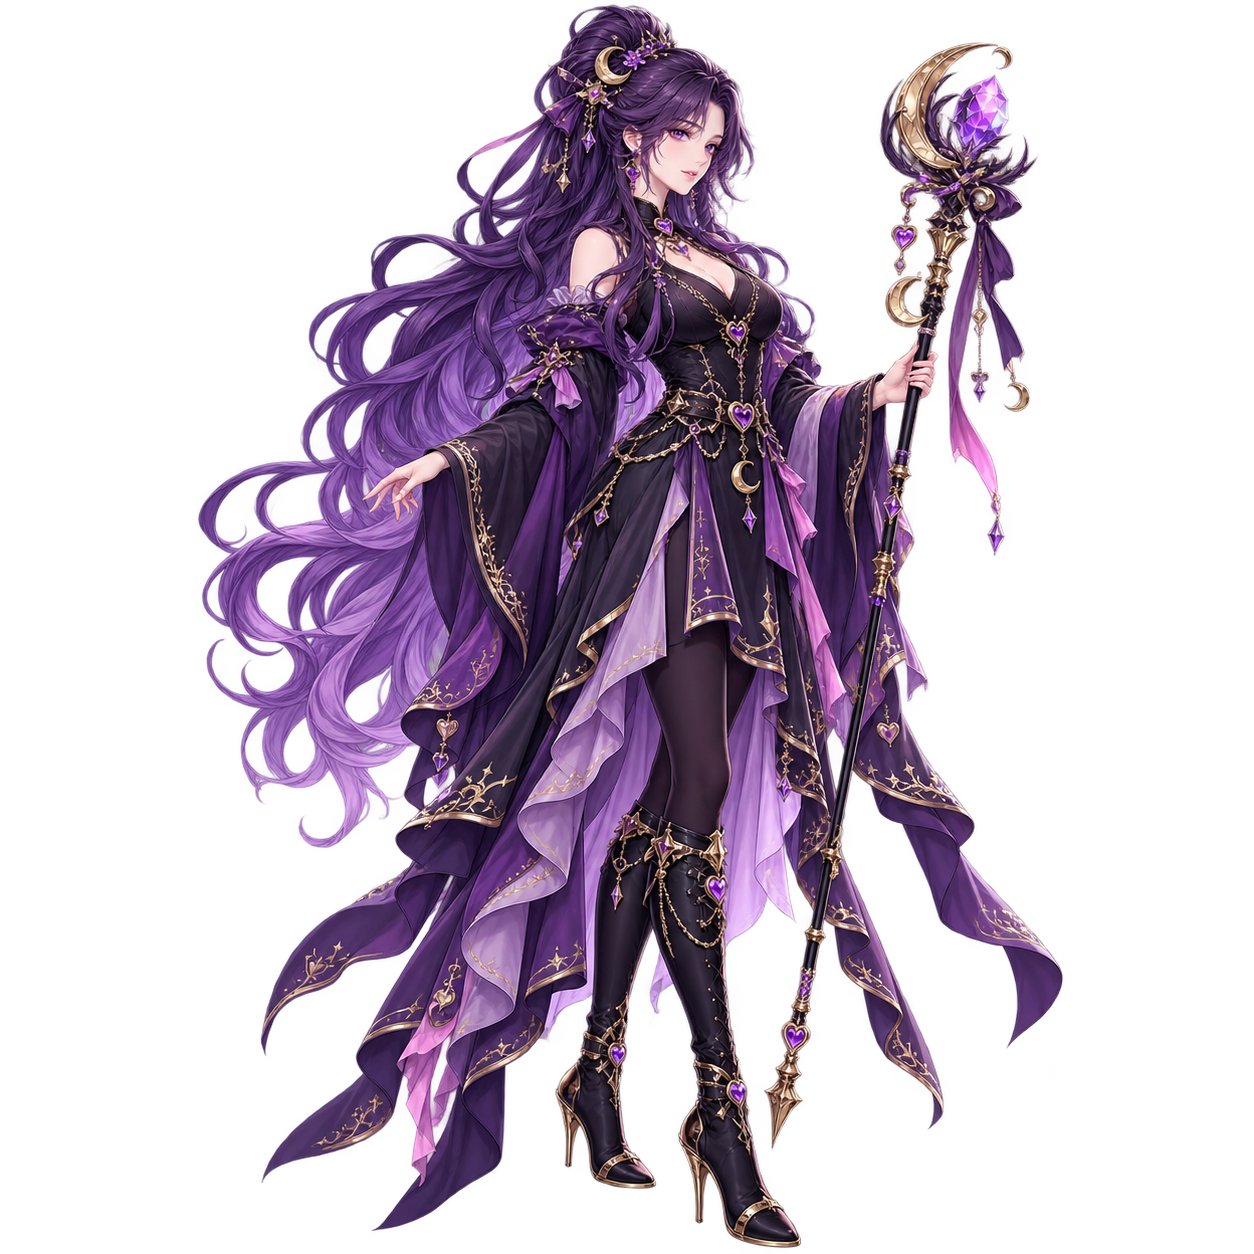
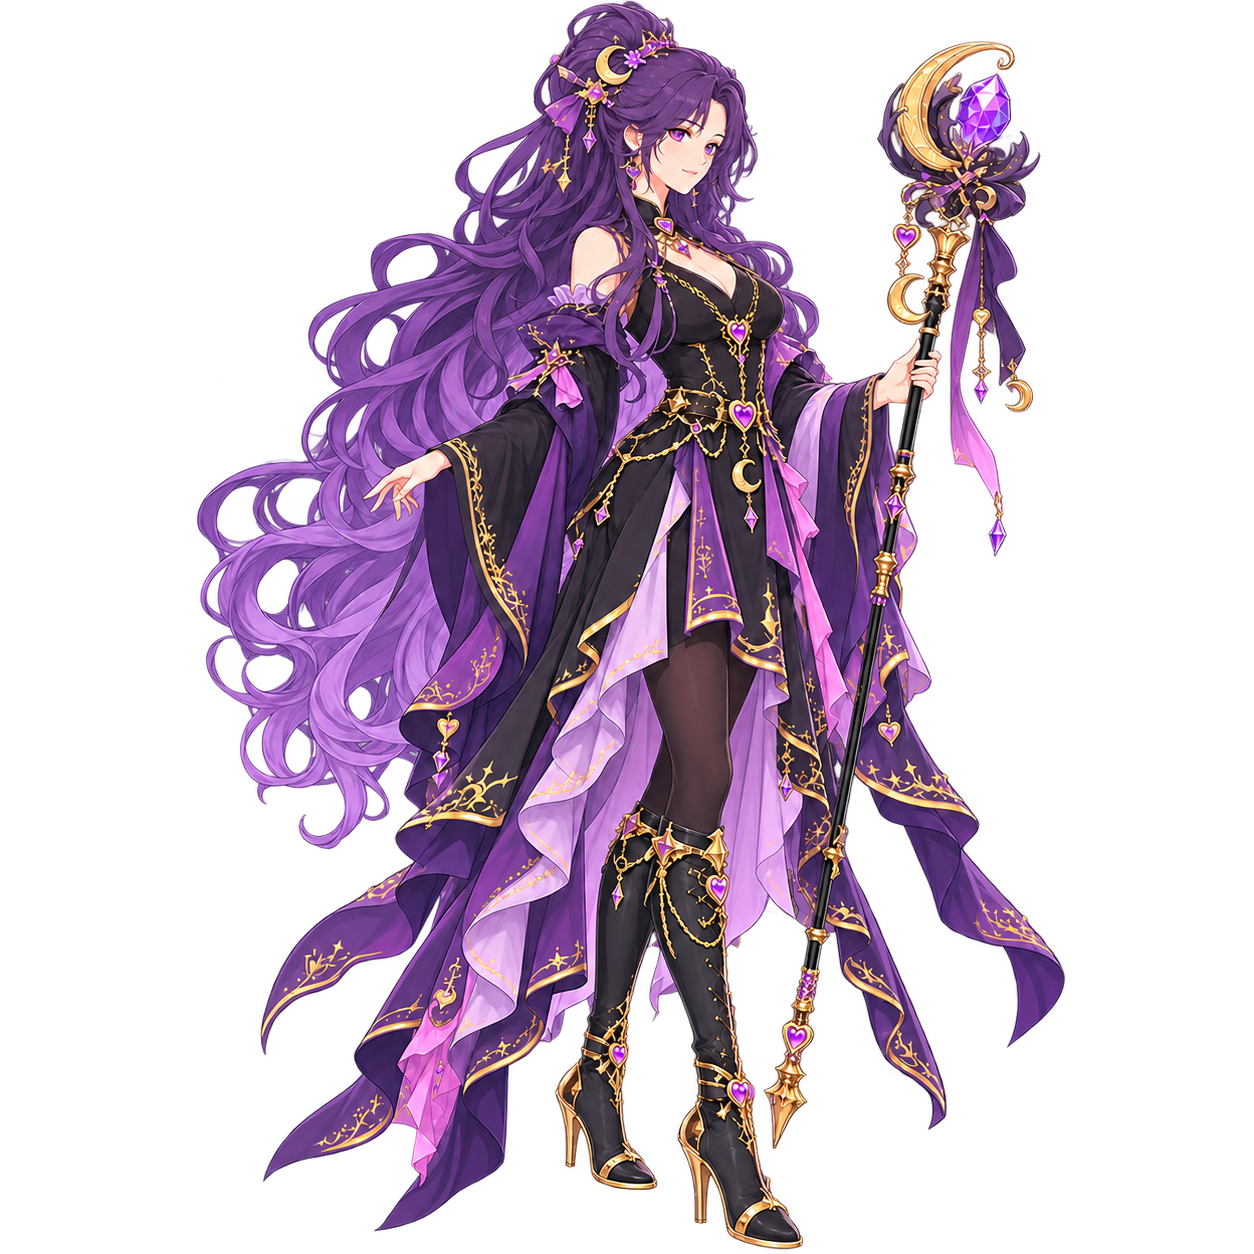
詠唱者のスプライト作成

Changed region(s): [[0.1555, 0.0, 0.8708, 1.0], [0.1866, 0.8086, 0.2177, 0.8397]]

diff --git a/docs/specs/移動キャラクタースプライト規格.md b/docs/specs/移動キャラクタースプライト規格.md
@@ -1,0 +1,54 @@
+# 移動キャラクタースプライト規格
+
+## 目的と適用範囲
+
+本規格は、フィールド上で移動するキャラクターの `idle` / `walk` 用sprite sheetの固定レイアウト、再生順、描画制約を定める。キャラクター固有の外見は[キャラクター設定](キャラクター設定.md)に従い、全体の画風・配色は[世界観・アートディレクション](世界観・アートディレクション.md)に従う。
+
+汎用のasset spec / animation specのデータ契約は[スプライト制作仕様](スプライト制作仕様.md)を正とする。
+
+## sheet規格
+
+| 項目 | 規格 |
+| --- | --- |
+| 画像形式 | 透過PNG、RGBA |
+| sheetサイズ | `512 × 320 px` |
+| レイアウト | 8列 × 5行のgrid。セル間の余白なし |
+| 1フレーム | `64 × 64 px` |
+| 総フレーム数 | 40フレーム（8方向 × 停止1フレーム + 歩行4フレーム） |
+| 視点 | 斜め上見下ろしの3/4トップダウン。頭頂、肩、足元が見えること |
+| 方向 | 左右反転は使わず、8方向を個別に描画すること |
+| 禁止要素 | 背景、床、影、発光、罫線、文字、ラベル、透かし |
+
+## grid配置
+
+原点はsheet左上とし、`column` / `row` は0始まりで扱う。
+
+| 行（`row`） | フェーズID | 内容 |
+| --- | --- | --- |
+| 0 | `idle` | 停止 |
+| 1 | `walk_01` | 接地 |
+| 2 | `walk_02` | 中間 |
+| 3 | `walk_03` | 逆接地 |
+| 4 | `walk_04` | 中間 |
+
+| 列（`column`） | 方向ID | 向き |
+| --- | --- | --- |
+| 0 | `down` | 下 |
+| 1 | `down_left` | 下左 |
+| 2 | `left` | 左 |
+| 3 | `up_left` | 上左 |
+| 4 | `up` | 上 |
+| 5 | `up_right` | 上右 |
+| 6 | `right` | 右 |
+| 7 | `down_right` | 下右 |
+
+## 再生規則
+
+- `idle` は各方向につき1フレームを表示する。
+- `walk` は各方向で `walk_01 → walk_02 → walk_03 → walk_04` の順にループする。`walk_04` の次は `walk_01` とし、接地足、重心、足元の位置が連続して見えること。
+- すべての方向で、髪、衣装、武器などのキャラクター識別要素と、足元を基準にした配置を一貫させる。
+- 本ゲームの現行実装では、歩行は8 FPSで再生する。
+
+## asset spec / animation specへの対応
+
+この規格をv2仕様で記述する場合は、`profile: "character"`、`layout.type: "grid"`、`layout.cell_size: { "width": 64, "height": 64 }`、`layout.columns`、`layout.rows`に上記の方向IDとフェーズIDを順序どおり指定する。`idle` clipは8つの方向variantを持ち、`walk` clipは各variantに4フレームを上記の再生順で持つ。
